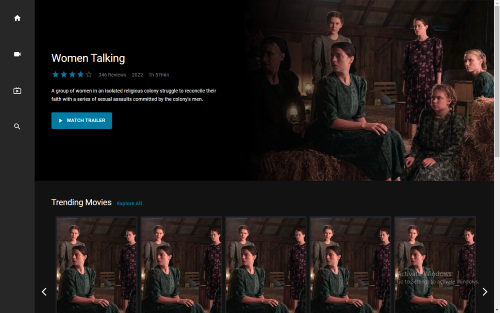
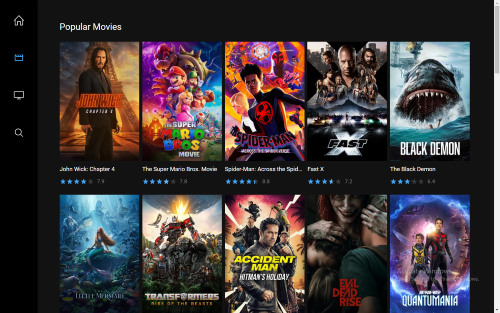
Add movies project detail

diff --git a/src/data/portfolio.js b/src/data/portfolio.js
@@ -26,9 +26,16 @@ const portfolio = [
       "Web application created with React.js React-Router and Material UI.",
     description: [
       "Fetching movies data from REST API and show in categories.",
-      "Material UI is used to style the application. Customized styles and theme for light and dark mode.",
+      "Material UI is used to style the application. Infinite loading technic is used to load more items as the user scrolls down the page. Image lazy loading is used to lazy load images so the user experience is enhanced. User can search for movie title, artist name and more.",
     ],
-    images: ["movies-1.png", "movies-1.png", "movies-1.png", "movies-1.png"],
+    images: [
+      "movies.png",
+      "movies-1.png",
+      "movies-2.png",
+      "movies-3.png",
+      "movies-4.png",
+      "movies-5.png",
+    ],
     tech: [
       "HTML5",
       "CSS3",

diff --git a/src/pages/project.js b/src/pages/project.js
@@ -64,6 +64,7 @@ export default function Project() {
             textColor="white"
             backColor={theme.colors.green}
             style={{ padding: "0.8em 1.5em" }}
+            disabled
           >
             <GoLinkExternal size={22} />
             <span>visit the website</span>
